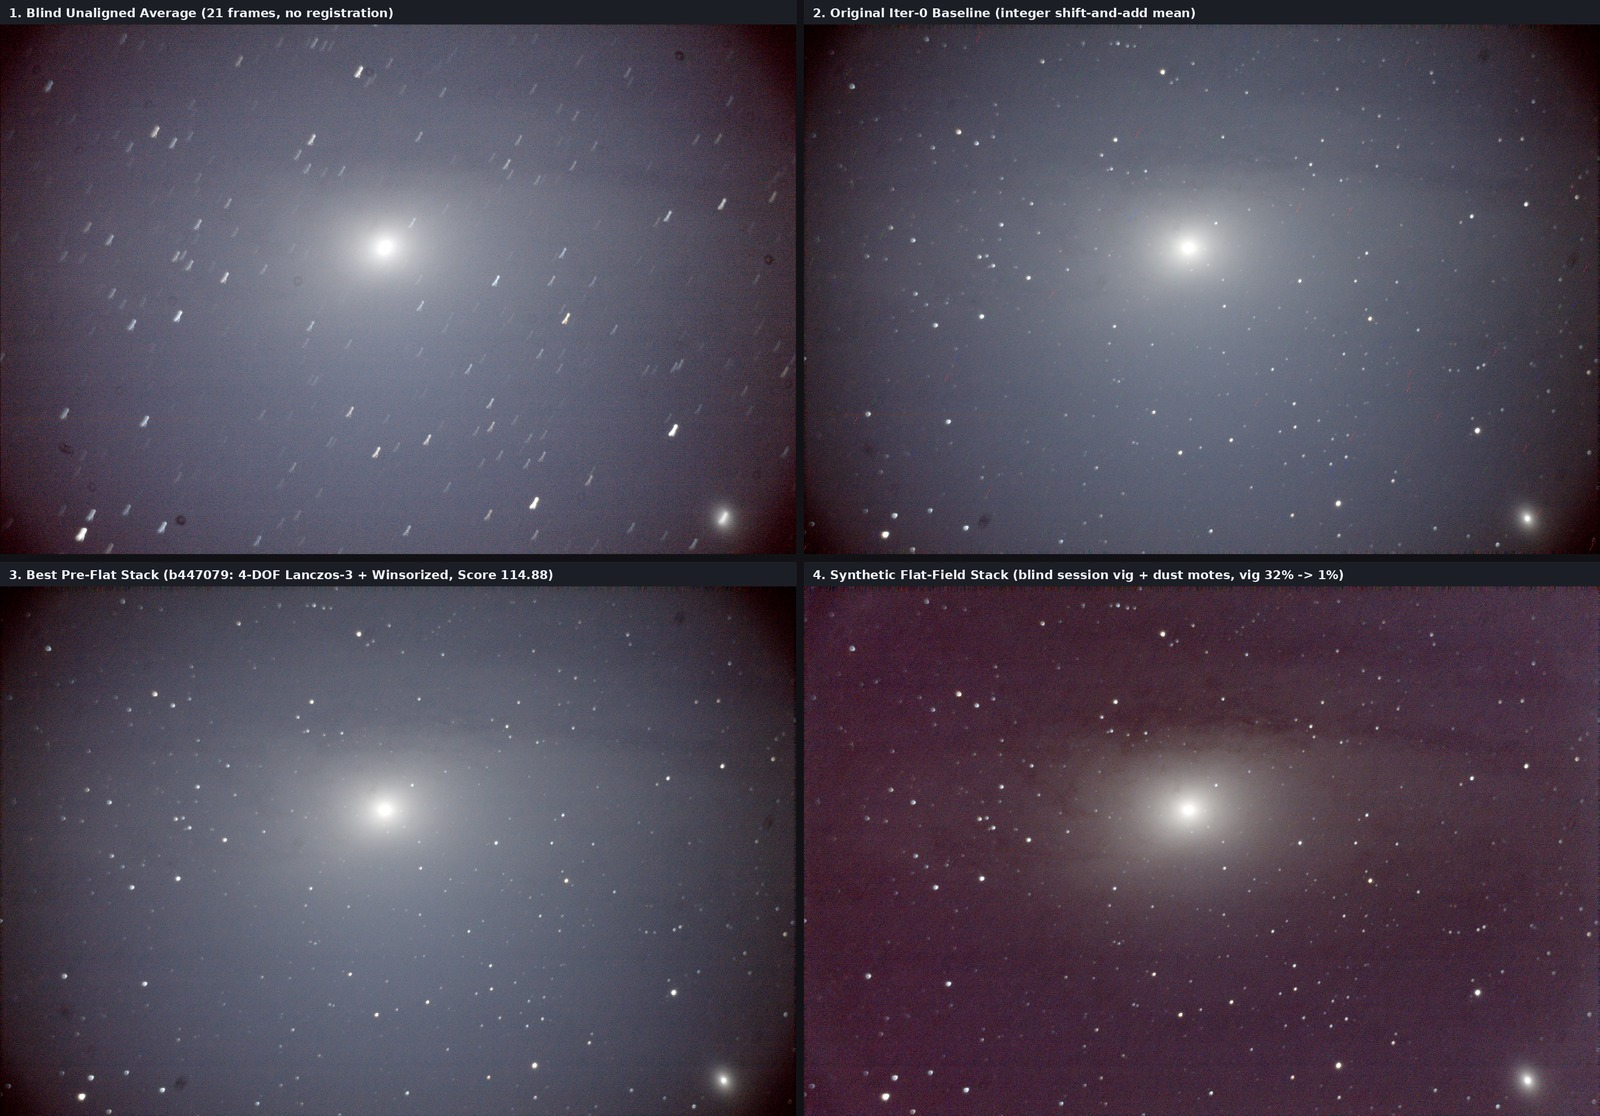
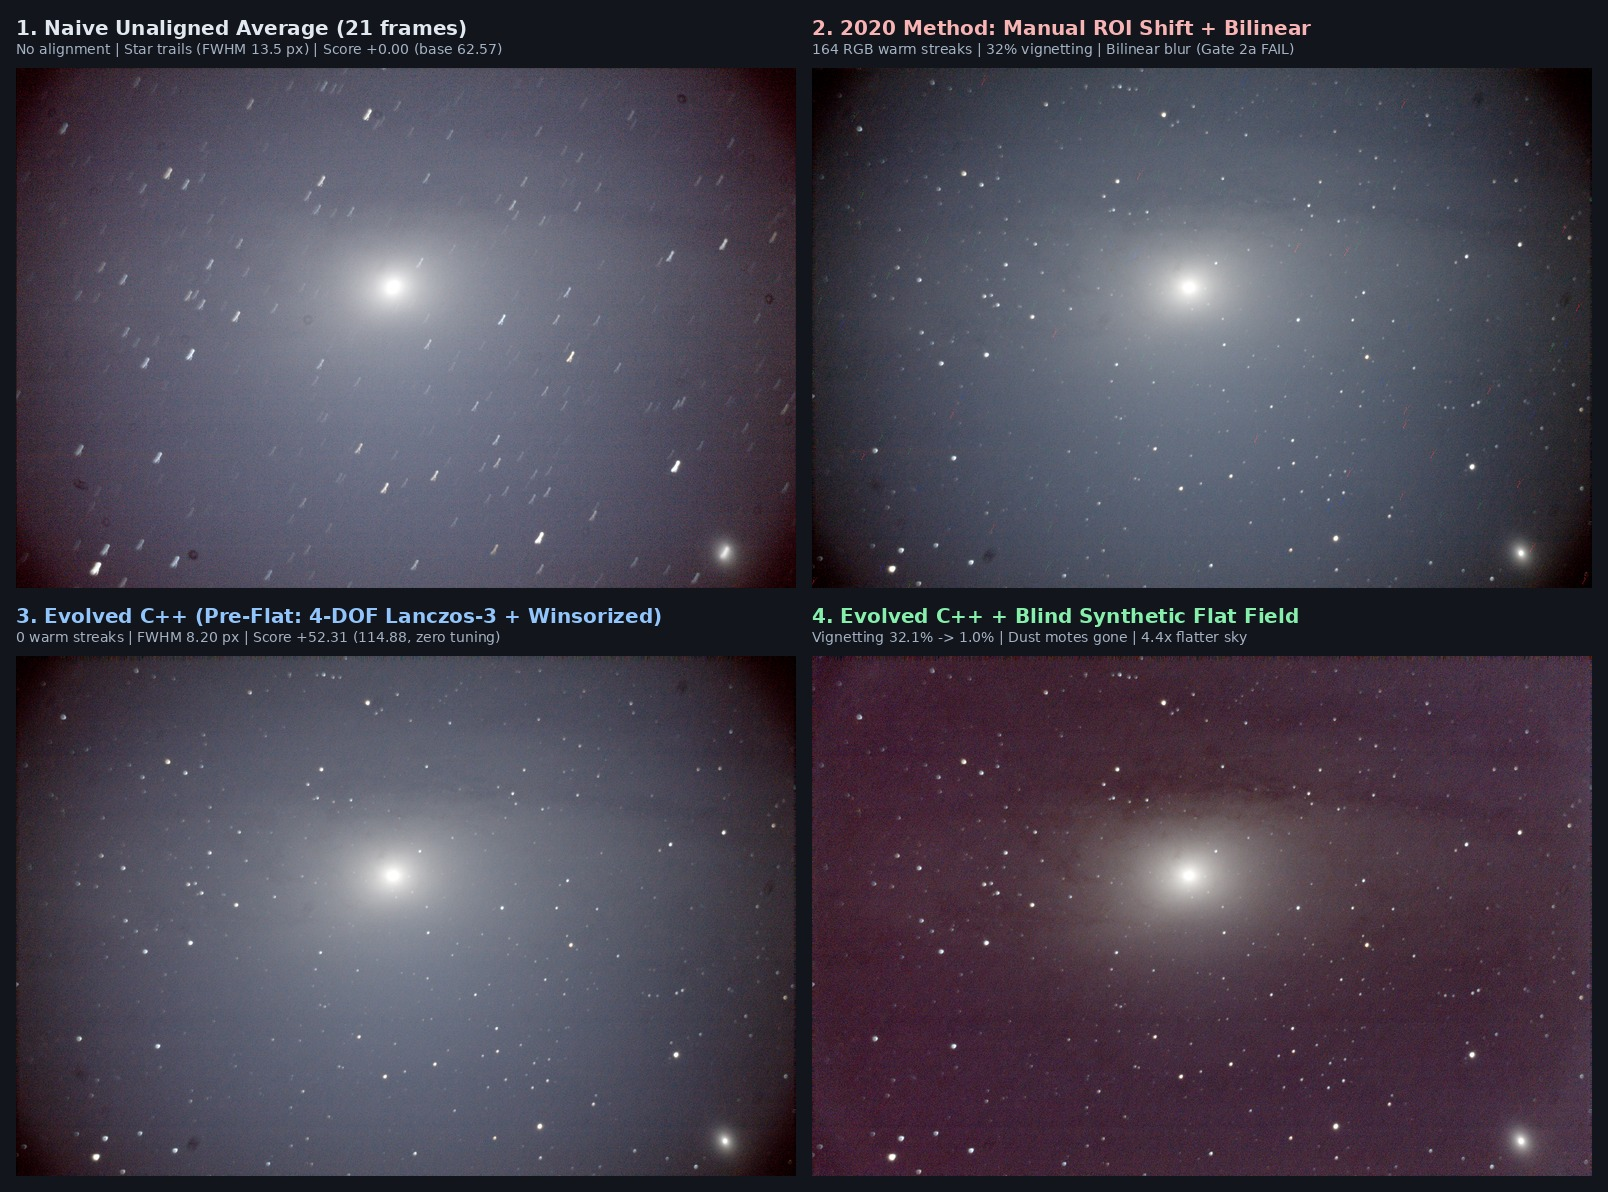
Rebuild 2x2 progression grids for M31 and M57 with 2020 ROI+bilinear as stage 2

diff --git a/_posts/2026-11-24-hill-climbing-an-astro-stacker-with-carbon.md b/_posts/2026-11-24-hill-climbing-an-astro-stacker-with-carbon.md
@@ -288,37 +288,27 @@ A portion of those tokens went into compiling the 15-page LaTeX paper and genera
 
 ## Final Results {#final-results}
 
-### Before vs. After: 2020 Best-Effort ROI + Bilinear vs. Final C++ + Synthetic Flat
-To test how far the older 2020 technique could get on its own, we ran a best-effort reproduction using naive mean dark subtraction, a manual star-ROI shift-difference search, and bilinear interpolation (no rotation, no Lanczos-3, no Winsorized clipping, no flat field).
+Each 2×2 grid below walks through the exact same four stages: **(1) naive unaligned average** → **(2) my 2020 method (manual star-ROI shift + bilinear)** → **(3) evolved C++ stacker (pre-flat)** → **(4) evolved C++ stacker + blind synthetic flat field**.
 
-It actually aligned the stars reasonably well, **and** it gave a neat experimental validation of our anti-cheat scorer: bilinear interpolation blurred neighboring sky pixels together so heavily (`rho_1px = 0.55` vs. `0.26` reference) that the scorer's spatial-smoothing gate immediately disqualified it (`score = -inf`), while leaving `164` diagonal RGB warm-pixel streaks on Andromeda, softer stars (`8.43 px` vs. `8.14–8.24 px`), `32%` vignetting, and dark dust donuts:
-
-<figure>
-  <img src="/images/2026-11-26-astro-stacker-2020-vs-final.jpg" alt="Side-by-side comparison of the 2020 best-effort manual ROI shift plus bilinear stack (left) against the final C++ engine plus blind synthetic flat (right) for both Andromeda M31 (top) and zoomed Ring Nebula M57 (bottom)">
-  <figcaption>Direct comparison: 2020 best-effort ROI shift + bilinear (left, disqualified by Gate 2a for bilinear smoothing and showing 164 RGB warm-pixel streaks, 32% vignetting, and dust donuts) vs. our final C++ engine + blind synthetic flat (right).</figcaption>
-</figure>
-
-### Full 4-Stage Progression
-
-Here is the full 4-stage visual progression, from **(1) unaligned average** → **(2) Iter-0 baseline** → **(3) best pre-flat stack** → **(4) final synthetic flat-field stack**, on both targets:
+*(As a bonus validation of our scorer: the 2020 ROI + bilinear stack actually aligned the stars reasonably well, but bilinear averaging blurred neighboring sky pixels together so heavily that `rho_1px` jumped from `0.26` to `0.55`, triggering the scorer's built-in **Gate 2a** anti-smoothing check (`score = -inf`) while leaving `164` RGB warm-pixel streaks on Andromeda, softer stars, `32%` vignetting, and dark dust donuts.)*
 
 ### Ring Nebula (M57): Zoomed View
 Notice the dark dust-mote donut right below the Ring Nebula in panels 1 to 3 disappearing cleanly in panel 4:
 
 <figure>
-  <img src="/images/2026-11-25-astro-stacker-m57-4stage-zoom.jpg" alt="2x2 zoomed progression grid of the Ring Nebula (M57) across 4 stages showing star tightening and the dark dust-mote donut right below the nebula disappearing in the synthetic flat-field stack">
+  <img src="/images/2026-11-25-astro-stacker-m57-4stage-zoom.jpg" alt="2x2 zoomed progression grid of the Ring Nebula (M57) across 4 stages: 1. Naive unaligned average, 2. 2020 manual ROI shift plus bilinear, 3. Evolved C++ pre-flat stack, and 4. Evolved C++ plus blind synthetic flat removing the dark dust-mote donut below the nebula">
 </figure>
 
 ### Ring Nebula (M57): Full Field
 Radial vignetting drops from `32.0%` to `-1.5%`, and the background sky becomes `7.0×` flatter:
 
 <figure>
-  <img src="/images/2026-11-25-astro-stacker-m57-4stage-progression.jpg" alt="2x2 full-field progression grid of ring_set (M57) showing unaligned star trails and 32% vignetting in panel 1 progressing to a flat, 7x smoother sky in panel 4">
+  <img src="/images/2026-11-25-astro-stacker-m57-4stage-progression.jpg" alt="2x2 full-field progression grid of ring_set (M57) across 4 stages: 1. Naive unaligned average, 2. 2020 manual ROI shift plus bilinear, 3. Evolved C++ pre-flat stack, and 4. Evolved C++ plus blind synthetic flat">
 </figure>
 
 ### Andromeda Galaxy (M31): Zero-Shot Holdout + Blind Flat
-Processed with zero retuning, then flattened using the synthetic flat estimated solely from M57, bringing out M31's elliptical disk, dark dust lanes, and companion galaxy M32 in the lower right:
+Processed with zero retuning, then flattened using the synthetic flat estimated solely from M57, removing all 164 RGB warm-pixel streaks from panel 2 and bringing out M31's elliptical disk, dark dust lanes, and companion galaxy M32 in the lower right:
 
 <figure>
-  <img src="/images/2026-11-25-astro-stacker-m31-4stage-progression.jpg" alt="2x2 progression grid of Andromeda (M31) across four stages: 1. Blind unaligned average showing star trails, 2. Iter-0 integer shift-and-add baseline with residual warm-pixel streaks, 3. Best pre-flat 4-DOF Lanczos-3 plus Winsorized stack (score 114.88), and 4. Final synthetic flat-field stack removing the 32% vignetting bowl and dust motes">
+  <img src="/images/2026-11-25-astro-stacker-m31-4stage-progression.jpg" alt="2x2 progression grid of Andromeda (M31) across four stages: 1. Naive unaligned average showing star trails, 2. 2020 manual ROI shift plus bilinear showing 164 RGB warm-pixel streaks and 32% vignetting, 3. Evolved C++ pre-flat stack (4-DOF Lanczos-3 plus Winsorized, score 114.88), and 4. Final synthetic flat-field stack removing the 32% vignetting bowl and dust motes">
 </figure>
